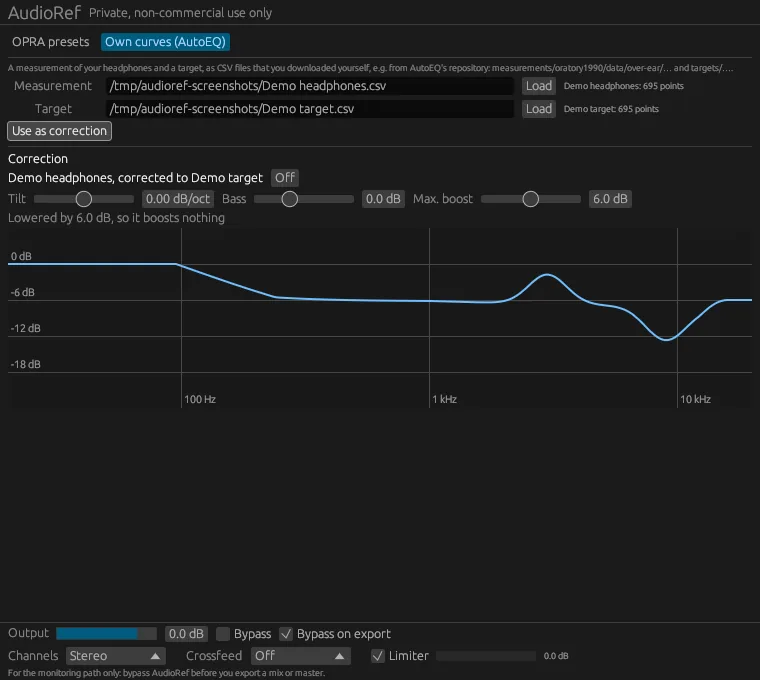
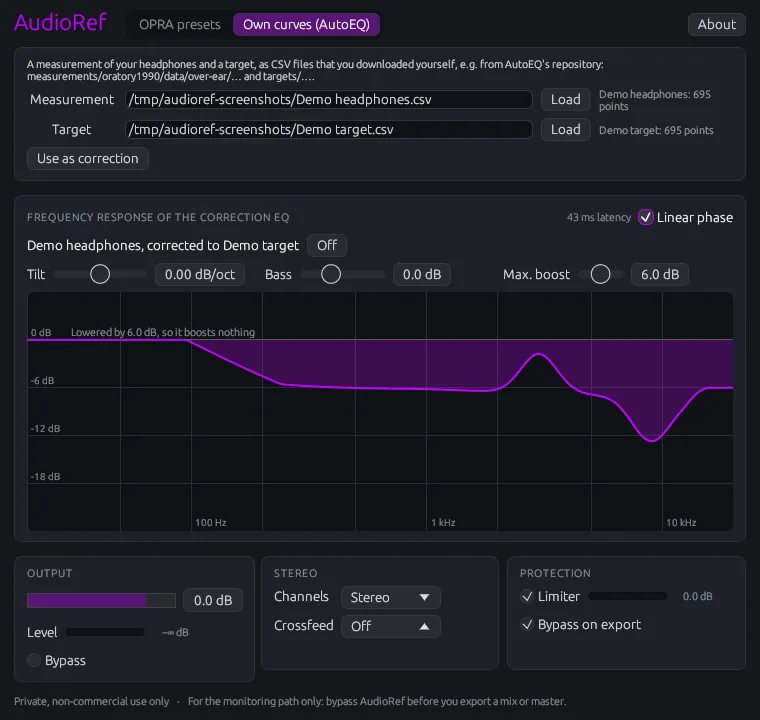
Show AudioRef's new window, and its linear phase
The screenshots come from audioref's main now, with the window's new
look; the card tells of the linear-phase mode and the level meter.

Claude-Session: https://claude.ai/code/session_01WQbEhRZ4fYFTesD6M7SaaK

diff --git a/src/content/projects.ts b/src/content/projects.ts
@@ -850,6 +850,10 @@ export const projects: Project[] = [
 				de: 'Umgeht sich selbst, wenn die DAW offline exportiert, damit die Korrektur im Abhörweg bleibt.'
 			},
 			{
+				en: 'Linear phase on request: the correction keeps transients in shape, and AudioRef tells the DAW its 43 to 46 ms of latency, so the tracks stay in time.',
+				de: 'Linearphasig auf Wunsch: Die Korrektur lässt Transienten in Form, und AudioRef meldet der DAW seine 43 bis 46 ms Latenz, damit die Spuren im Takt bleiben.'
+			},
+			{
 				en: 'Crossfeed in three strengths, mono and swapped channels, to hear a mix a little more as from speakers and to check it in mono.',
 				de: 'Crossfeed in drei Stärken, Mono und vertauschte Kanäle, um einen Mix etwas mehr wie über Lautsprecher zu hören und ihn in Mono zu prüfen.'
 			},
@@ -858,8 +862,8 @@ export const projects: Project[] = [
 				de: 'Das Projekt speichert die Korrektur, sodass es auch auf einem Rechner ohne die Dateien gleich klingt; jede Änderung blendet über 20 ms, damit nichts knackt.'
 			},
 			{
-				en: 'A window with the curve of the correction, hints on every control, and the author of each preset, in English and German.',
-				de: 'Ein Fenster mit der Kurve der Korrektur, Hinweisen an jedem Regler und dem Autor jedes Presets, auf Englisch und Deutsch.'
+				en: 'A window with the frequency response of the correction, a level meter, hints on every control, and the author of each preset, in English and German.',
+				de: 'Ein Fenster mit dem Frequenzgang der Korrektur, einer Pegelanzeige, Hinweisen an jedem Regler und dem Autor jedes Presets, auf Englisch und Deutsch.'
 			}
 		],
 		engineering: [
@@ -872,8 +876,8 @@ export const projects: Project[] = [
 				de: 'Der Audio-Thread allokiert nie, sperrt nie und liest keine Dateien: Filter entstehen im Hintergrund und kommen über lock-freie Queues herüber, die alten gehen zum Freigeben zurück.'
 			},
 			{
-				en: 'Matched biquads that hold up to the highest frequencies at every sample rate, and minimum-phase FIR filters from the real cepstrum, convolved in partitions without latency.',
-				de: 'Gematchte Biquads, die bei jeder Samplerate bis in die höchsten Frequenzen stimmen, und minimalphasige FIR-Filter aus dem reellen Cepstrum, partitioniert und ohne Latenz gefaltet.'
+				en: 'Matched biquads that hold up to the highest frequencies at every sample rate, minimum-phase FIR filters from the real cepstrum, convolved in partitions without latency, and linear-phase ones whose latency the DAW makes up for.',
+				de: 'Gematchte Biquads, die bei jeder Samplerate bis in die höchsten Frequenzen stimmen, minimalphasige FIR-Filter aus dem reellen Cepstrum, partitioniert und ohne Latenz gefaltet, und linearphasige, deren Latenz die DAW ausgleicht.'
 			},
 			{
 				en: 'Bundles for Windows, macOS and Linux, checked with clap-validator and pluginval at strictness 10; weekly fuzzing of every file it reads, cargo-deny, CodeQL and zizmor in CI, and screenshots of the window taken on a virtual display.',
@@ -894,8 +898,8 @@ export const projects: Project[] = [
 			{
 				file: 'docs/screenshots/en-correction.png',
 				caption: {
-					en: 'A built-in preset for the AKG K240 Studio, and the curve of its correction',
-					de: 'Ein eingebautes Preset für den AKG K240 Studio und die Kurve seiner Korrektur'
+					en: 'A built-in preset for the AKG K240 Studio, and the frequency response of its correction',
+					de: 'Ein eingebautes Preset für den AKG K240 Studio und der Frequenzgang seiner Korrektur'
 				},
 				focus: 'top'
 			}
@@ -904,8 +908,8 @@ export const projects: Project[] = [
 			{
 				file: 'docs/screenshots/en-curves.png',
 				caption: {
-					en: 'A correction designed from a measurement and a target, with tilt, bass and the limit for boosts',
-					de: 'Eine Korrektur aus Messung und Zielkurve, mit Neigung, Bass und Grenze für Anhebungen'
+					en: 'A correction designed from a measurement and a target, with tilt, bass and the limit for boosts, in linear phase with 43 ms of latency',
+					de: 'Eine Korrektur aus Messung und Zielkurve, mit Neigung, Bass und Grenze für Anhebungen, linearphasig mit 43 ms Latenz'
 				}
 			},
 			{
